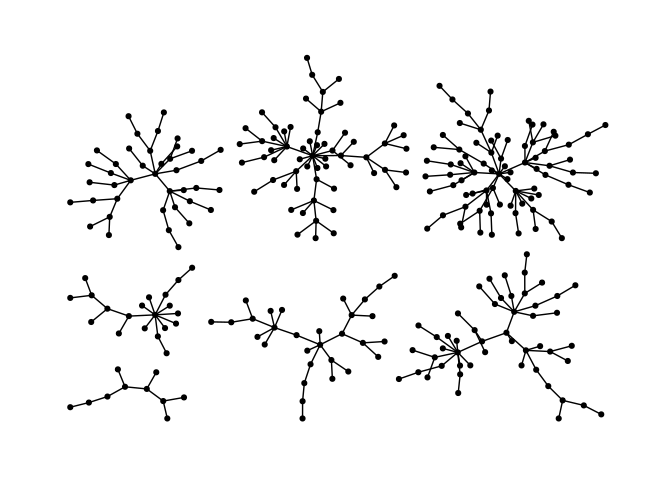
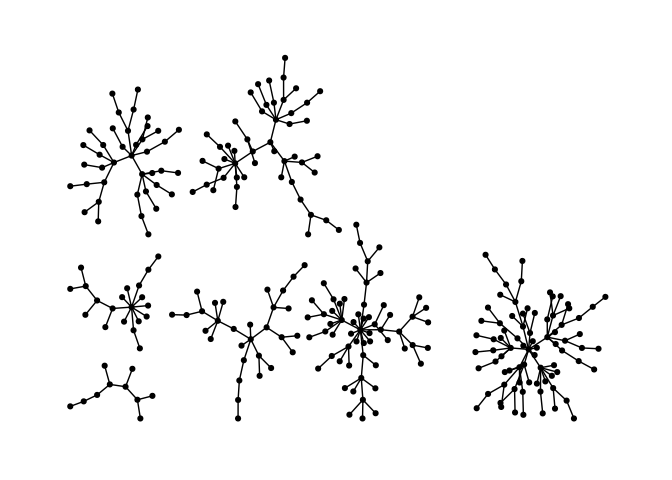
added better ggraph support

diff --git a/README.md b/README.md
@@ -47,9 +47,7 @@ ggraph(pa)+
 
 ``` r
 
-
-l <- layout_with_stress(pa)
-ggraph(pa,layout="manual",node.positions=data.frame(x=l[,1],y=l[,2]))+
+ggraph(pa,layout="stress")+
   geom_edge_link(width=0.2,colour="grey")+
   geom_node_point(col="black",size=0.3)+
   theme_graph()
@@ -93,8 +91,7 @@ ggraph(g) +
 
 ``` r
 
-l <- layout_with_stress(g,bbox=30)
-ggraph(g, layout="manual", node.positions=data.frame(x=l[,1],y=l[,2])) +
+ggraph(g, layout="stress") +
   geom_edge_link() +
   geom_node_point() +
   theme_graph()
@@ -113,8 +110,7 @@ g <- sample_islands(9,40,0.4,15)
 g <- simplify(g)
 V(g)$grp <- as.character(rep(1:9,each=40))
 
-xy <- layout_with_stress(g)
-ggraph(g,layout="manual",node.positions=data.frame(x=xy[,1],y=xy[,2]))+
+ggraph(g,layout="stress")+
   geom_edge_link(colour=rgb(0,0,0,0.5),width=0.1)+
   geom_node_point(aes(col=grp))+
   scale_color_brewer(palette = "Set1")+
@@ -155,8 +151,7 @@ library(igraphdata)
 library(patchwork)
 data("karate")
 
-xy <- layout_with_focus(karate,1)
-p1 <- ggraph(karate,layout = "manual",node.positions = data.frame(x = xy[,1], y = xy[,2])) +
+p1 <- ggraph(karate,layout = "focus",v = 1) +
   draw_circle(use = "focus",max.circle = 3)+
   geom_edge_link(edge_color="black",edge_width=0.3)+
   geom_node_point(aes(fill=as.factor(Faction)),size=2,shape=21)+
@@ -166,8 +161,7 @@ p1 <- ggraph(karate,layout = "manual",node.positions = data.frame(x = xy[,1], y 
   coord_fixed()+
   labs(title= "Focus on Mr. Hi")
 
-xy <- layout_with_focus(karate,34)
-p2 <- ggraph(karate,layout = "manual",node.positions = data.frame(x = xy[,1], y = xy[,2])) +
+p2 <- ggraph(karate,layout = "focus",v = 34) +
   draw_circle(use = "focus",max.circle = 4)+
   geom_edge_link(edge_color="black",edge_width=0.3)+
   geom_node_point(aes(fill=as.factor(Faction)),size=2,shape=21)+
@@ -191,8 +185,7 @@ the more peripherial it is.
 ``` r
 
 bc <- betweenness(karate)
-xy <- layout_with_centrality(karate,bc,tseq = seq(0,1,0.15))
-p1 <- ggraph(karate,layout = "manual",node.positions = data.frame(x = xy[,1], y = xy[,2])) +
+p1 <- ggraph(karate,layout = "centrality", cent = bc, tseq = seq(0,1,0.15)) +
   draw_circle(use = "cent") +
   annotate_circle(bc,format="",pos="bottom") +
   geom_edge_link(edge_color="black",edge_width=0.3)+
@@ -205,8 +198,7 @@ p1 <- ggraph(karate,layout = "manual",node.positions = data.frame(x = xy[,1], y 
 
 
 cc <- closeness(karate)
-xy <- layout_with_centrality(karate,cc,tseq = seq(0,1,0.2))
-p2 <- ggraph(karate,layout = "manual",node.positions = data.frame(x = xy[,1], y = xy[,2])) +
+p2 <- ggraph(karate,layout = "centrality", cent = cc, tseq = seq(0,1,0.2)) +
   draw_circle(use = "cent") +
   annotate_circle(cc,format="scientific",pos="bottom") +
   geom_edge_link(edge_color="black",edge_width=0.3)+

diff --git a/NEWS.md b/NEWS.md
@@ -1,3 +1,8 @@
+# smglr 0.0.5.9000
+
+* layouts can now be used directly in ggraph, e.g. `ggraph(g,layout="stress")+...`
+* added documentation, examples and references
+
 # smglr 0.0.4.9000
 
 * added `layout_with_centrality()`
